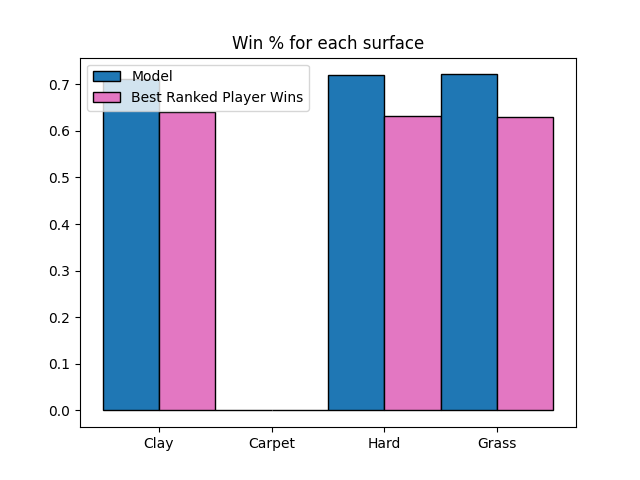
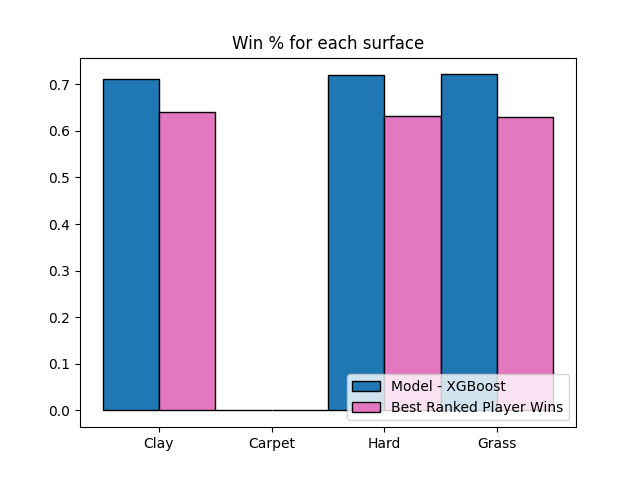
few diffs

Changed region(s): [[0.5312, 0.75, 0.9062, 0.875], [0.125, 0.125, 0.5, 0.25]]

diff --git a/examples/results_reading/best_model.py b/examples/results_reading/best_model.py
@@ -123,7 +123,7 @@ for surface, surface_code in {"Clay": 0, "Carpet": 1, "Hard": 2, "Grass": 3}.ite
         precision_model,
         edgecolor="k",
         facecolor="tab:blue",
-        label="Model",
+        label="Model - XGBoost",
     )
     ax.add_patch(rect)
     rect = Rectangle(
@@ -141,7 +141,7 @@ ax.autoscale()
 plt.xticks([1, 3, 5, 7], labels=ticks)
 handles, labels = plt.gca().get_legend_handles_labels()
 by_label = dict(zip(labels, handles))
-plt.legend(by_label.values(), by_label.keys())
+plt.legend(by_label.values(), by_label.keys(), loc=4)
 plt.title("Win % for each surface")
 plt.savefig("win_per_surface.png")
 plt.show()
